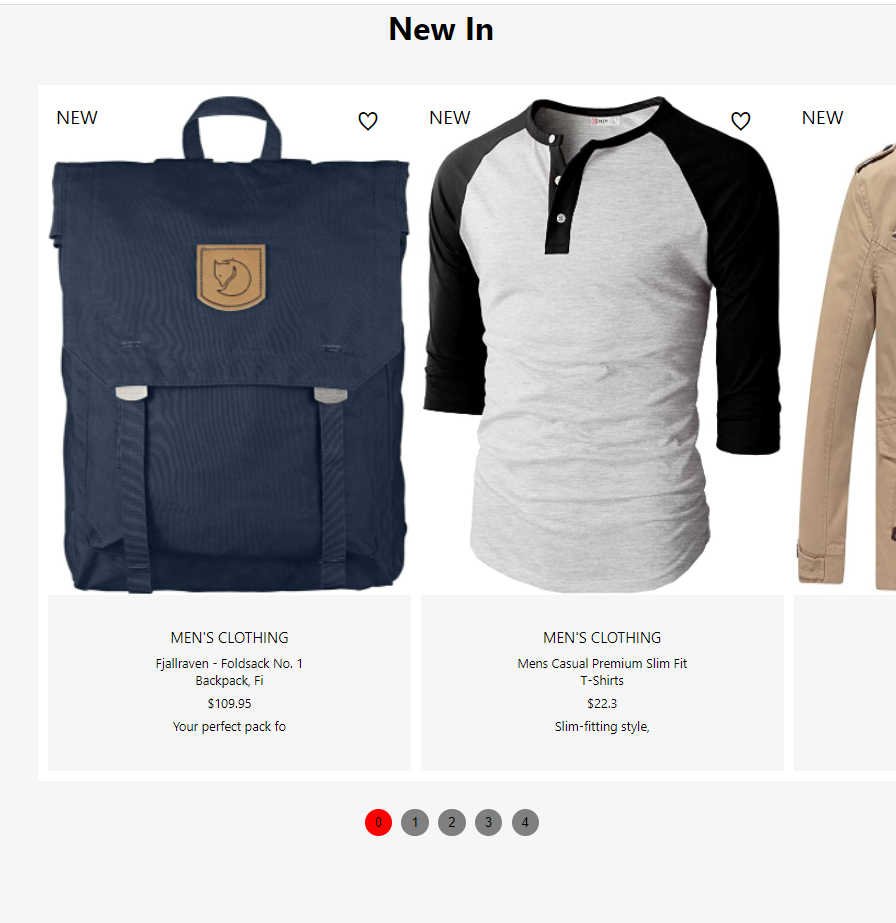
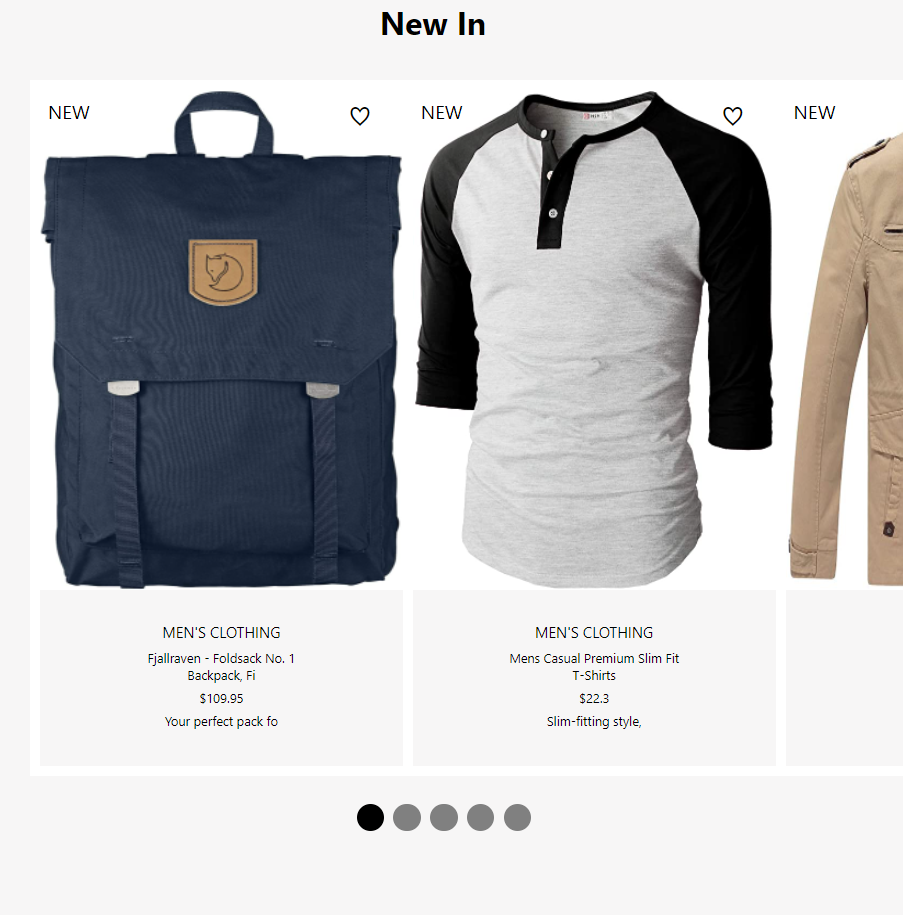
fixed more styles

diff --git a/src/components/Carousel.jsx b/src/components/Carousel.jsx
@@ -1,7 +1,7 @@
 import {useEffect} from 'react';
 import {useDispatch,useSelector} from 'react-redux';
 import {prodcutsSelector, fetchFendi} from '../features/fendiSlice';
-import useWindowSize from './WindowHelper';
+// import useWindowSize from './WindowHelper';
 
 import './Carousel.styles.scss';
 import IterateItems from './IterateItems';
@@ -12,13 +12,13 @@ function Carousel(){
 
 	const dispatch = useDispatch()
 
-	const [width,] = useWindowSize()
+	// const [width,] = useWindowSize()
 
 	useEffect(() => {
 		dispatch(fetchFendi())
-	},[])
+	},[dispatch])
 
-	const prodcuts = () => {
+	const allProducts = () => {
 		if(loading) return <p>loading</p>
 		if(hasErrors) return <p>Error</p>
 
@@ -37,13 +37,13 @@ function Carousel(){
 	const offset = 40
 	const scalar = 18
 	const margin = 40
-	let index = (offset * (fretz * scalar)) 
+	let index = offset * (fretz * scalar)
 	
 	console.log(fretz, index)
 	return (
 		<div className="carousel_component">     
       <div className="product_component" style={carouselMover(-index + margin)}>   
-        {prodcuts()	}
+        {allProducts()	}
       </div>
     </div>
 	)

diff --git a/src/components/Carousel.styles.scss b/src/components/Carousel.styles.scss
@@ -115,9 +115,10 @@ $button-width: 3vw;
 	    width: $button-width;
 	    height: $button-width;
 	    cursor: pointer;
+	    font-size: 0px;
 		}
 		&.slick-active button{
-			background-color: red;
+			background-color: black;
 		}
 	}
 }

diff --git a/src/features/fendiSlice.js b/src/features/fendiSlice.js
@@ -1,4 +1,5 @@
-import {  createSlice } from '@reduxjs/toolkit'
+// import {useCallBack} from 'react';
+import { createSlice } from '@reduxjs/toolkit'
 import axios from 'axios'
 
 export const initialState = {

diff --git a/src/components/Slick.jsx b/src/components/Slick.jsx
@@ -1,3 +1,5 @@
+
+
 const SlickLi = ({index, change}) => {
   const newArray = new Array(5).fill(0)
   return newArray.map((d,i) => {

diff --git a/README.md b/README.md
@@ -1,4 +1,7 @@
-# Carousel in React using Redux/toolkit Fetching Api Data
+# Carousel in React + Redux/toolkit + Axios
+
+Trying to create a simple carousel where you click a button and you to you go to a certain width from the banner(carousel). No setTimeouts yet. maybe I'll add different features like arrows and stuff like that.
+
 
 ## ScreenShot:
 
